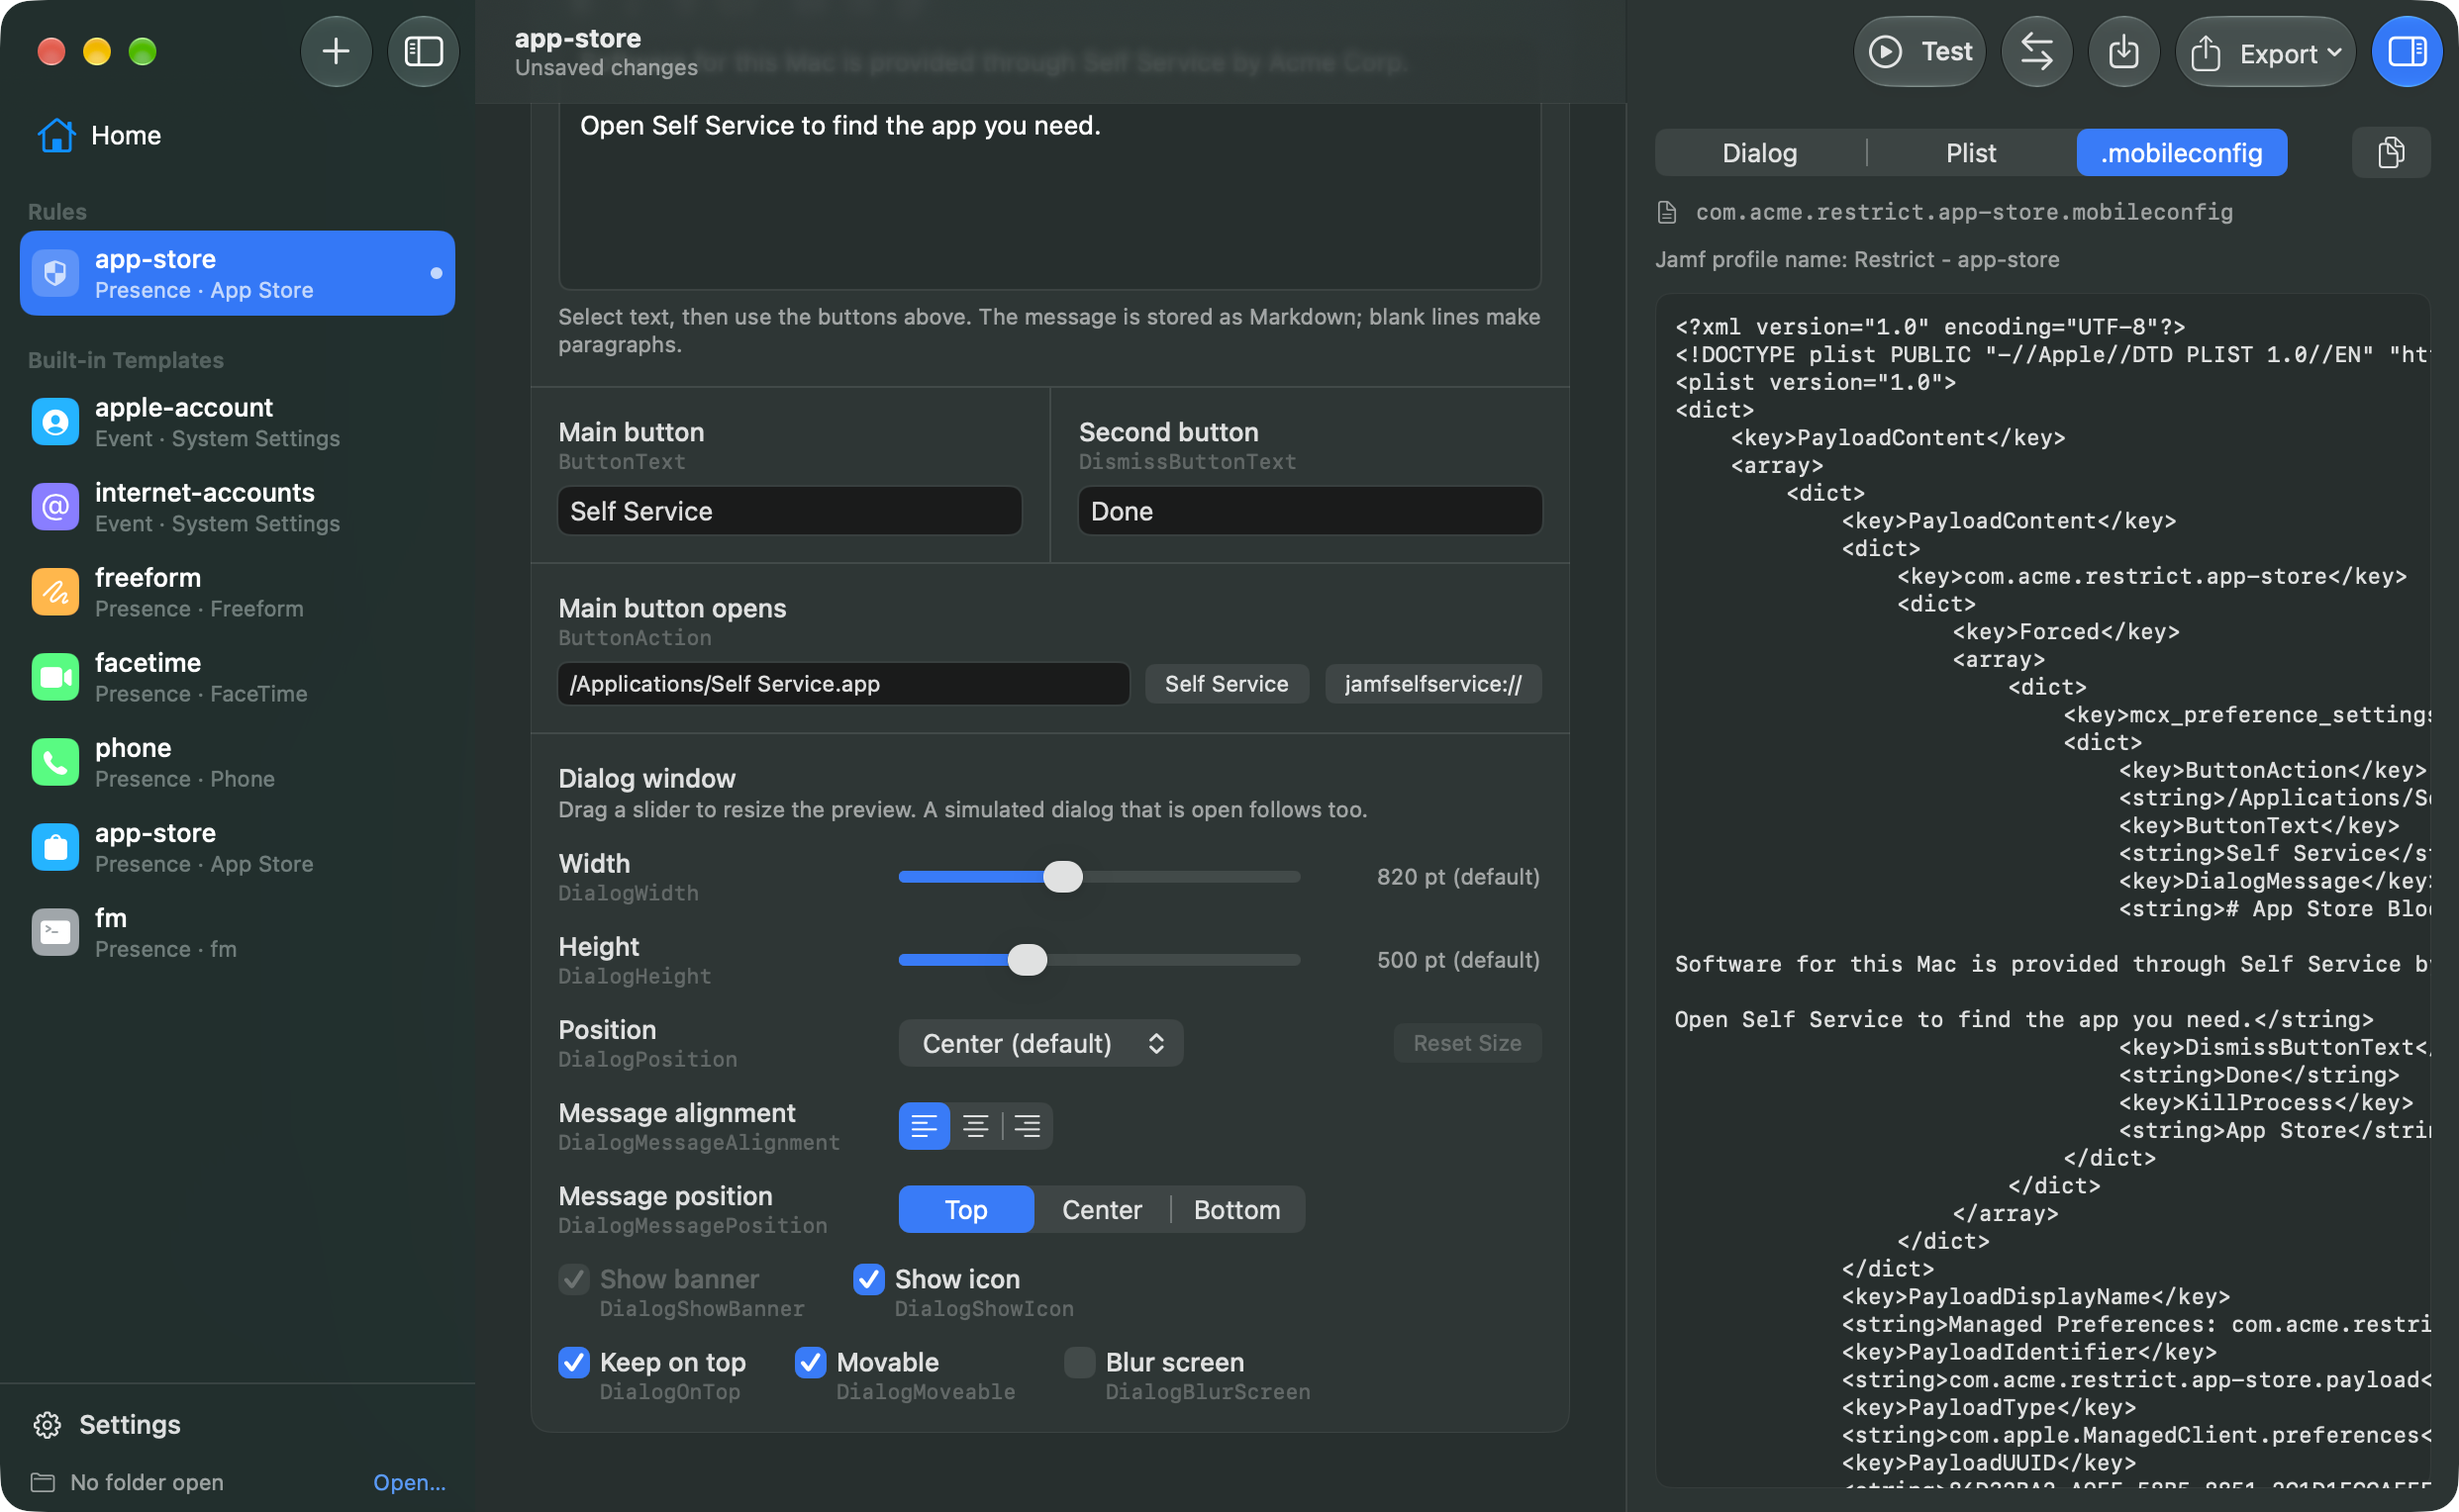
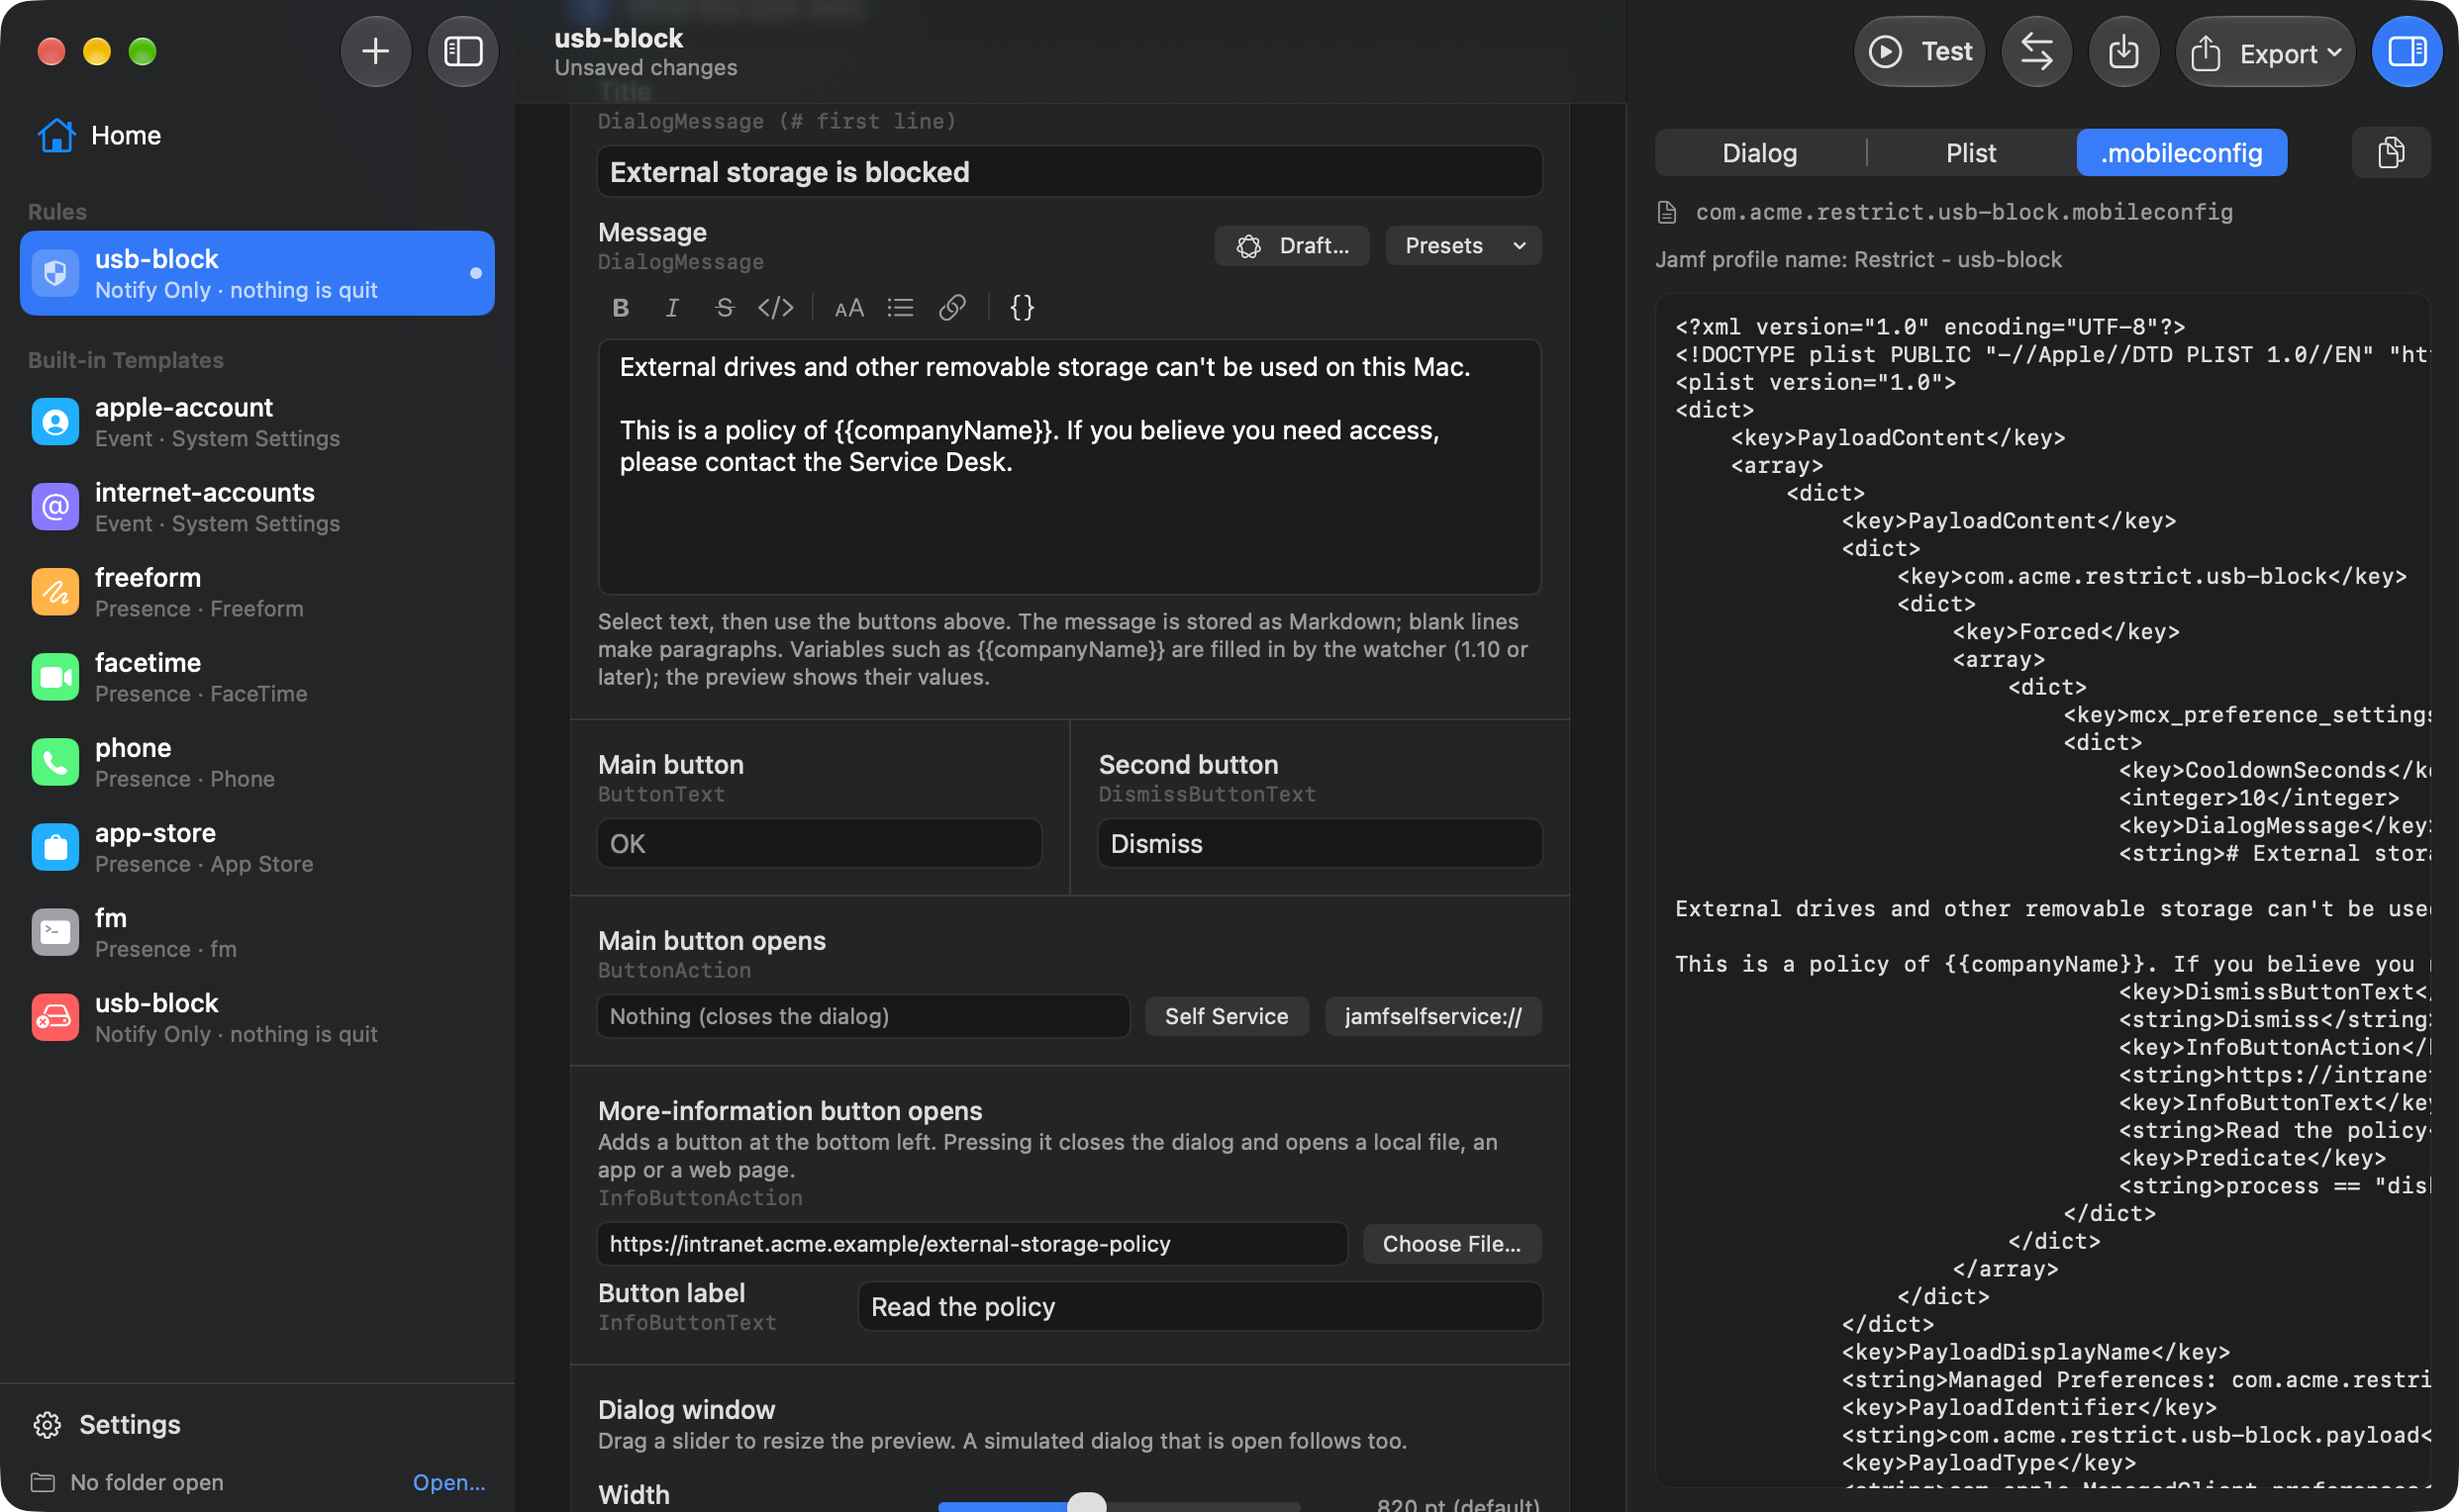
README for 1.2: download note, release notes, Jamf API privileges, new screenshots
Add a Download section that says the pkg is unsigned and not notarised and
how to install it anyway, a "What's new in 1.2" section, and a table of the
Jamf Pro API role privileges the app needs with the endpoints behind each.

Refresh the five screenshots for 1.2 and add the usb-block template page.

Give the message-variable menu an accessible name ("Insert variable").

diff --git a/LockdownBuilder/Views/RuleEditorView.swift b/LockdownBuilder/Views/RuleEditorView.swift
@@ -872,12 +872,13 @@ private struct MessageEditor<Accessory: View>: View {
                     }
                 }
             } label: {
+                // The label goes on the image: a Menu reports its label view's name, not its own.
                 Image(systemName: "curlybraces").frame(width: 24, height: 20).contentShape(Rectangle())
+                    .accessibilityLabel("Insert variable")
             }
             .menuIndicator(.hidden)
             .fixedSize()
             .help("Insert a variable the watcher fills in when the dialog is shown")
-            .accessibilityLabel("Insert variable")
             Spacer()
         }
         .buttonStyle(.borderless)

diff --git a/README.md b/README.md
@@ -9,17 +9,52 @@ quitting them, but tells the user why in a prompt you design: your wording, your
 can take them somewhere useful such as Self Service. It can also act on a single action inside an app (for example
 opening one System Settings pane) rather than only on the whole app.
 
-> **Status:** feature-complete per the original brief: rule editor, validation, exports, dialog designer, test harness,
-> target picker, predicate discovery and optional on-device Apple Intelligence help.
+> **Status:** version 1.2. Rule editor, validation, exports, dialog designer, test harness, target picker, predicate
+> discovery, Jamf Pro publishing, and optional on-device Apple Intelligence help.
+
+## Download
+
+Each [release](https://github.com/mrheathjones/LockdownBuilder/releases) has the source and, from 1.2, an installer
+package (`LockdownBuilder-<version>-unsigned.pkg`) that puts `LockdownBuilder.app` in `/Applications`.
+
+**The package is not notarised.** The app inside is signed with a Developer ID, but the `.pkg` itself is unsigned and
+has not been through Apple's notary service, so macOS will refuse to open it on a double-click. Either right-click
+(Control-click) the package and choose **Open**, or install it from the Terminal:
+
+```bash
+sudo installer -pkg ~/Downloads/LockdownBuilder-1.2-unsigned.pkg -target /
+```
+
+If you'd rather not run an un-notarised package, build from source (see [Build](#build)).
 
 ## Screenshots
 
-![The rule editor: three steps on the left, a live dialog preview on the right](Screenshots/rule-editor.png)
+![The rule editor: a notify-only rule with the Notify Only type selected and a live dialog preview on the right](Screenshots/rule-editor.png)
 
 | | |
 |---|---|
-| ![Home: start a rule from scratch, a folder, or a template](Screenshots/home.png) | ![Dialog options: buttons, window size, position and message alignment](Screenshots/dialog-options.png) |
-| ![The generated .mobileconfig, ready to export or publish to Jamf Pro](Screenshots/mobileconfig-preview.png) | ![Settings: build the watcher installer and upload it to Jamf Pro](Screenshots/settings-watcher.png) |
+| ![Home: start a rule from scratch, a folder, or a template](Screenshots/home.png) | ![The usb-block template page with its notes and the values it carries](Screenshots/template-usb-block.png) |
+| ![Dialog options: message with a {{companyName}} variable, buttons, and the More Information button](Screenshots/dialog-options.png) | ![The generated .mobileconfig, ready to export or publish to Jamf Pro](Screenshots/mobileconfig-preview.png) |
+| ![Settings: build the watcher installer and upload it to Jamf Pro](Screenshots/settings-watcher.png) | |
+
+## What's new in 1.2
+
+- **Notify Only rules.** A rule with a `Predicate` and no `KillProcess` shows the dialog when the log line appears and
+  quits nothing. Use it to explain something that is enforced elsewhere.
+- **usb-block template.** A notify-only rule that tells the user why an external drive did not mount under a DDM
+  Disk Management *Disallowed* policy. It enforces nothing; scope it only to the group with that policy.
+- **Message variables.** `{{companyName}}`, `{{ruleName}}` and `{{killProcess}}` in the title or message are filled
+  in by the watcher when the dialog is shown. The built-in templates and presets use `{{companyName}}`.
+- **More Information button.** `InfoButtonAction` adds a button at the bottom left that closes the dialog and opens a
+  local file, an app or a web page; `InfoButtonText` sets its label.
+- **Watcher 1.10 / installer 1.9.** Notify-only rules need watcher 1.9 or later; variables and the info button need
+  1.10 or later. The editor says which version a rule needs.
+- The JSON schema requires only `DialogMessage`; the app and the watcher enforce "KillProcess or Predicate".
+- First release with an installer package (see [Download](#download)).
+
+Earlier releases: [1.1](https://github.com/mrheathjones/LockdownBuilder/releases/tag/v1.1) (redesigned interface,
+dialog designer, Publish to Jamf Pro, bundled watcher installer),
+[1.0](https://github.com/mrheathjones/LockdownBuilder/releases/tag/v1.0) (first release).
 
 ## Add a rule in 2 minutes
 
@@ -60,8 +95,24 @@ watchers show `{{…}}` as typed and have no info button). The editor says which
 ## Publish to Jamf Pro (optional)
 
 In **Settings → Jamf Pro**, enter your server URL and an API client's ID and secret (Jamf Pro → Settings → API roles and
-clients), then **Test Connection**. The API role needs *Create*, *Read* and *Update macOS Configuration Profiles*, plus *Create*, *Read* and *Update Scripts* if you upload the
-watcher installer.
+clients), then **Test Connection**.
+
+### Jamf Pro API role privileges
+
+Create an API role with these privileges, then an API client that uses the role. Nothing else is needed; the app
+never reads computers, users or policies.
+
+| Privilege (Jamf Pro → Settings → API roles and clients) | Used by | API calls |
+|---|---|---|
+| **Read macOS Configuration Profiles** | Test Connection; *Check Jamf Pro* before a publish | `GET /JSSResource/osxconfigurationprofiles`, `GET …/name/<name>` |
+| **Create macOS Configuration Profiles** | *Create Profile* (a rule that doesn't exist on the server yet) | `POST /JSSResource/osxconfigurationprofiles/id/0` |
+| **Update macOS Configuration Profiles** | *Update Profile* (a rule that already exists, matched by name) | `PUT /JSSResource/osxconfigurationprofiles/id/<id>` |
+| **Read Scripts** | *Check* before uploading the watcher installer | `GET /api/v1/scripts?filter=name==…`, `GET /api/v1/scripts/<id>` |
+| **Create Scripts** | Uploading the installer for the first time | `POST /api/v1/scripts` |
+| **Update Scripts** | Re-uploading the installer under the same name | `PUT /api/v1/scripts/<id>` |
+
+The three *Scripts* privileges are only needed if you upload the watcher installer from Settings → Watcher. Every
+session also calls `POST /api/oauth/token` and `POST /api/v1/auth/invalidate-token`, which need no privilege.
 
 - Auth is OAuth client credentials. The client secret is stored in your login keychain, never in preferences or files,
   and every token is invalidated as soon as the request finishes.
